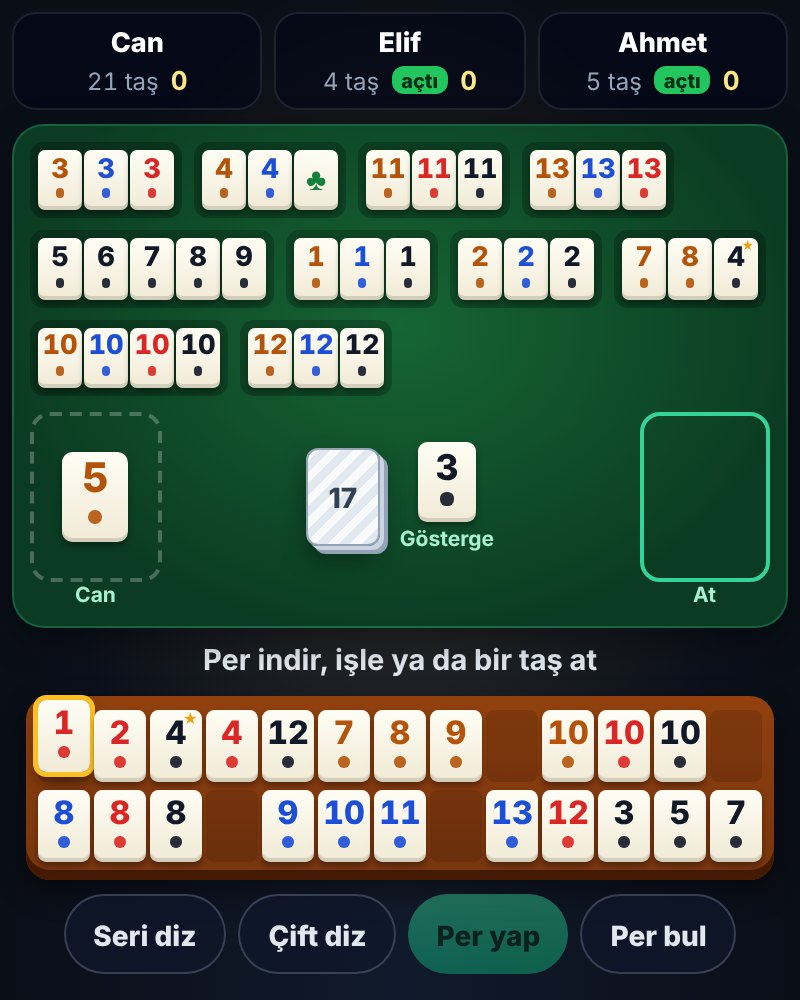
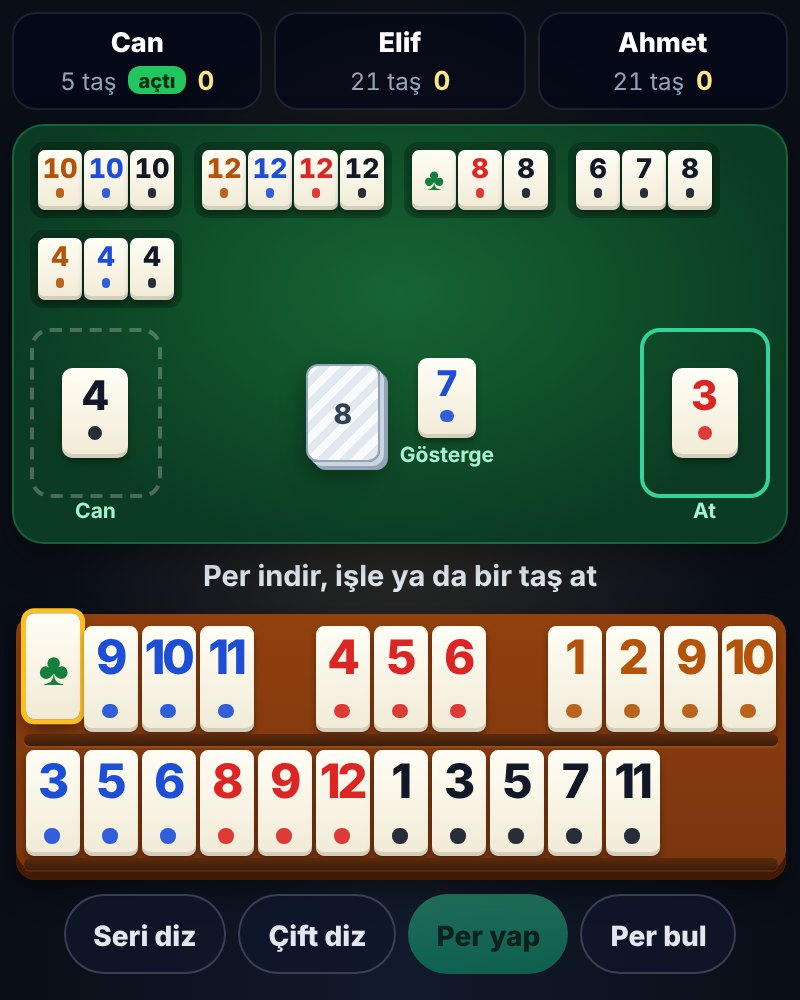
Güncelleme

diff --git a/okey/index.html b/okey/index.html
@@ -223,11 +223,17 @@ main { display: grid; grid-template-columns: minmax(0, 1fr); grid-template-rows:
   .seat .nm { font-size: 15px; } .seat .in { font-size: 13px; }
 }
 
-/* Dikey telefon: ıstaka 4 satır x 7 */
-.rack.wrap { grid-template-columns: repeat(7, var(--tw)); gap: 5px 3px; }
-.rack.wrap .slot { grid-row: var(--r); grid-column: var(--c); }
-.rack.wrap .slot[style*="--r:3"] { margin-top: 7px; }
-.rack.wrap .tl.sel { transform: translateY(-9%); }
+/* Dikey telefon: iki katlı ıstaka, yuvalar bitişik, taşlar uzun ve rakamlar büyük */
+.rack.tall { grid-template-columns: repeat(13, var(--tw)); grid-auto-rows: calc(var(--tw) * var(--tr)); gap: 9px 0; padding: 6px 4px 12px; border-radius: 10px; }
+.rack.tall .slot { border-radius: 0; background: none; }
+.rack.tall .slot::after { content: ''; position: absolute; left: 0; right: 0; bottom: -7px; height: 6px; background: linear-gradient(180deg, #5b2a0c, #3f1d08); box-shadow: 0 1px 0 rgba(255, 255, 255, .08); }
+.rack.tall .slot:nth-child(13n + 1)::after { border-radius: 3px 0 0 3px; } .rack.tall .slot:nth-child(13n)::after { border-radius: 0 3px 3px 0; }
+.rack.tall .slot.hov { background: rgba(251, 191, 36, .45); }
+.rack.tall .tl { width: calc(var(--tw) - 2px); margin: 0 1px; height: 100%; font-size: calc(var(--tw) * .82); letter-spacing: -.07em; font-variant-numeric: normal; padding-top: calc(var(--tw) * .16); border-radius: calc(var(--tw) * .14); }
+.rack.tall .tl::after { width: calc(var(--tw) * .26); height: calc(var(--tw) * .26); margin-top: auto; margin-bottom: calc(var(--tw) * .22); }
+.rack.tall .tl.fk { font-size: calc(var(--tw) * .8); }
+.rack.tall .tl.jk::before { font-size: calc(var(--tw) * .34); top: 0; right: 1px; }
+.rack.tall .tl.sel { transform: translateY(-12%); }
 .meld, .stage .meld { --tw: var(--mw, 19px); }
 .pile, .deck { --tw: calc(var(--mw, 22px) * 1.5); } .ind { --tw: calc(var(--mw, 22px) * 1.3); }
 
@@ -406,7 +412,7 @@ const STR = {
     drawMe: 'Desteden çek ya da soldakinin attığı taşı al', playMe: 'Bir taş at', playFirst: 'İlk el sende: bir taş at',
     play101: 'Per indir, işle ya da bir taş at', open101: 'Elini açmak için per seç', thinking: (n) => `${n} oynuyor…`,
     sortRun: 'Seri diz', sortPair: 'Çift diz', finishB: 'Bitir', showB: 'Göstergeyi göster', perB: 'Per yap', openB: 'Aç', cancelB: 'Vazgeç', findB: 'Per bul', backB: 'Geri koy',
-    pickOne: 'Önce bir taş seç', notFinish: 'Bu taşı atınca el bitmiyor', badMeld: 'Seçtiğin taşlar per değil', notOpened: 'Önce elini açmalısın',
+    rotHint: 'Daha büyük taşlar için yan çevir', pickOne: 'Önce bir taş seç', notFinish: 'Bu taşı atınca el bitmiyor', badMeld: 'Seçtiğin taşlar per değil', notOpened: 'Önce elini açmalısın',
     needUse: 'Yerden aldığın taşı bu tur kullanmalısın', keepOne: 'Bitirmek için elinde atacak bir taş kalmalı', total: (n) => `Toplam ${n} / 101`, pairsN: (n) => `${n} çift / 5`, lowOpen: (n) => `Açmak için 101 gerekli, şu an ${n}`,
     mixPairs: 'Çiftler ve perler birlikte açılamaz', cantAdd: 'Bu taş o pere işlenmez', shown: (n) => `${n} göstergeyi gösterdi: diğerleri 1 puan kaybetti`, showedMe: 'Göstergeyi gösterdin: rakipler 1 puan kaybetti',
     noFind: 'Uygun per bulunamadı', joker: 'Okey taşı (joker)',
@@ -434,7 +440,7 @@ const STR = {
     drawMe: 'Draw from the deck or take the tile your left neighbour discarded', playMe: 'Discard a tile', playFirst: 'You start: discard a tile',
     play101: 'Lay melds, lay off tiles or discard', open101: 'Pick melds to open your hand', thinking: (n) => `${n} is playing…`,
     sortRun: 'Sort runs', sortPair: 'Sort pairs', finishB: 'Go out', showB: 'Show indicator', perB: 'Make meld', openB: 'Open', cancelB: 'Cancel', findB: 'Find melds', backB: 'Put back',
-    pickOne: 'Select a tile first', notFinish: 'Discarding this tile does not finish your hand', badMeld: 'Those tiles are not a meld', notOpened: 'Open your hand first',
+    rotHint: 'Turn sideways for bigger tiles', pickOne: 'Select a tile first', notFinish: 'Discarding this tile does not finish your hand', badMeld: 'Those tiles are not a meld', notOpened: 'Open your hand first',
     needUse: 'You must use the tile you took this turn', keepOne: 'Keep one tile to discard', total: (n) => `Total ${n} / 101`, pairsN: (n) => `${n} pairs / 5`, lowOpen: (n) => `You need 101 to open, you have ${n}`,
     mixPairs: 'Pairs and melds cannot be opened together', cantAdd: 'That tile does not fit this meld', shown: (n) => `${n} showed the indicator: others lose 1 point`, showedMe: 'You showed the indicator: rivals lose 1 point',
     noFind: 'No meld found', joker: 'Okey tile (joker)',
@@ -614,10 +620,12 @@ function deal() {
   G.rack = Array(SLOTS).fill(-1); arrange('run');
   selSet = new Set(); epoch++; busy = false;
   save(); render(); kick();
+  if ($('rack').classList.contains('tall') && !rotHinted) { rotHinted = true; setTimeout(() => toast(T().rotHint, '#a7f3d0'), 700); }
 }
-// Grupları satır sınırına taşırmadan diz (dikey ekranda satırlar 7+6 yuvadır)
+let rotHinted = false;
+// Grupları ıstaka katının sonundan taşırmadan diz
 function packGroups(out, groups) {
-  const wrap = $('rack').classList.contains('wrap'), B = wrap ? [7, 13, 20, 26] : [13, 26];
+  const B = [13, 26];
   for (const g of groups) {
     const bi = B.findIndex((x) => x > out.length); if (bi < 0) { out.push(...g); continue; }
     const E = B[bi], cap = B[bi + 1] != null ? B[bi + 1] - E : 0;
@@ -892,19 +900,21 @@ function moveSlot(from, to) {
 }
 
 // ---------- Çizim ----------
-// Dar ekranda (dikey telefon) her 13'lük sıra 7+6 olarak iki satıra sarılır: taşlar iki kat büyük olur.
+// Istaka her zaman iki kat x 13. Dikey telefonda yuvalar arası boşluk kalkar, taşlar ekran genişliğini doldurur ve uzar.
 function sizeTiles() {
-  const main = $('main'), w = Math.min(main.clientWidth, 900) - 16, mh = main.clientHeight;
+  const main = $('main'), mh = main.clientHeight;
   const land = matchMedia('(orientation: landscape)').matches && innerHeight < 560;
-  let tw = Math.floor((w - 12 - 24) / 13), wrap = false;
-  if (land) tw = Math.min(tw, Math.floor((innerHeight - 265) / 2.76));
+  const tall = !land && main.clientWidth < 620;
+  let tw;
+  if (tall) tw = Math.floor((main.clientWidth - 12 - 8) / 13);
   else {
-    const tw7 = Math.floor(Math.min((w - 12 - 18) / 7, (mh * 0.4 - 40) / (4 * 1.38)));
-    if (tw7 > tw * 1.25) { tw = tw7; wrap = true; }
+    tw = Math.floor((Math.min(main.clientWidth, 900) - 16 - 12 - 24) / 13);
+    if (land) tw = Math.min(tw, Math.floor((innerHeight - 265) / 2.76));
   }
-  tw = clamp(tw, 20, wrap ? 64 : 50);
-  main.style.setProperty('--tw', tw + 'px');
-  $('rack').classList.toggle('wrap', wrap);
+  tw = clamp(tw, 20, 50);
+  const tr = tall ? clamp((mh * 0.3 - 30) / (2 * tw), 1.38, 2) : 1.38;
+  main.style.setProperty('--tw', tw + 'px'); main.style.setProperty('--tr', tr.toFixed(3));
+  $('rack').classList.toggle('tall', tall);
   const T = $('table'), tA = T.clientWidth * T.clientHeight;
   main.style.setProperty('--mw', clamp(Math.round(Math.sqrt(tA) / 13), land ? 19 : 22, 34) + 'px');
 }
@@ -932,7 +942,7 @@ function render() {
   if (!st.hidden) { const pairs = G.stage[0].t === 'pair', tot = G.stage.reduce((s, m) => s + m.val, 0);
     st.innerHTML = `<div class="sm">${G.stage.map((m, i) => `<div class="meld" data-si="${i}">${m.ids.map((id) => tileHtml(id)).join('')}</div>`).join('')}</div><span class="tot">${esc(pairs ? t.pairsN(G.stage.length) : t.total(tot))}</span>`; }
   // raf
-  $('rack').innerHTML = G.rack.map((id, i) => `<div class="slot${i % 13 === 0 && i ? ' r2' : ''}" data-s="${i}" style="--r:${Math.floor(i / 13) * 2 + Math.floor(i % 13 / 7) + 1};--c:${i % 13 % 7 + 1}">${id >= 0 ? tileHtml(id, (selSet.has(id) ? 'sel' : '') + (id === newId ? ' nw' : '')) : ''}</div>`).join('');
+  $('rack').innerHTML = G.rack.map((id, i) => `<div class="slot" data-s="${i}">${id >= 0 ? tileHtml(id, (selSet.has(id) ? 'sel' : '') + (id === newId ? ' nw' : '')) : ''}</div>`).join('');
   // durum ve düğmeler
   let s = '';
   if (G.phase === 'draw' || G.phase === 'play') {
